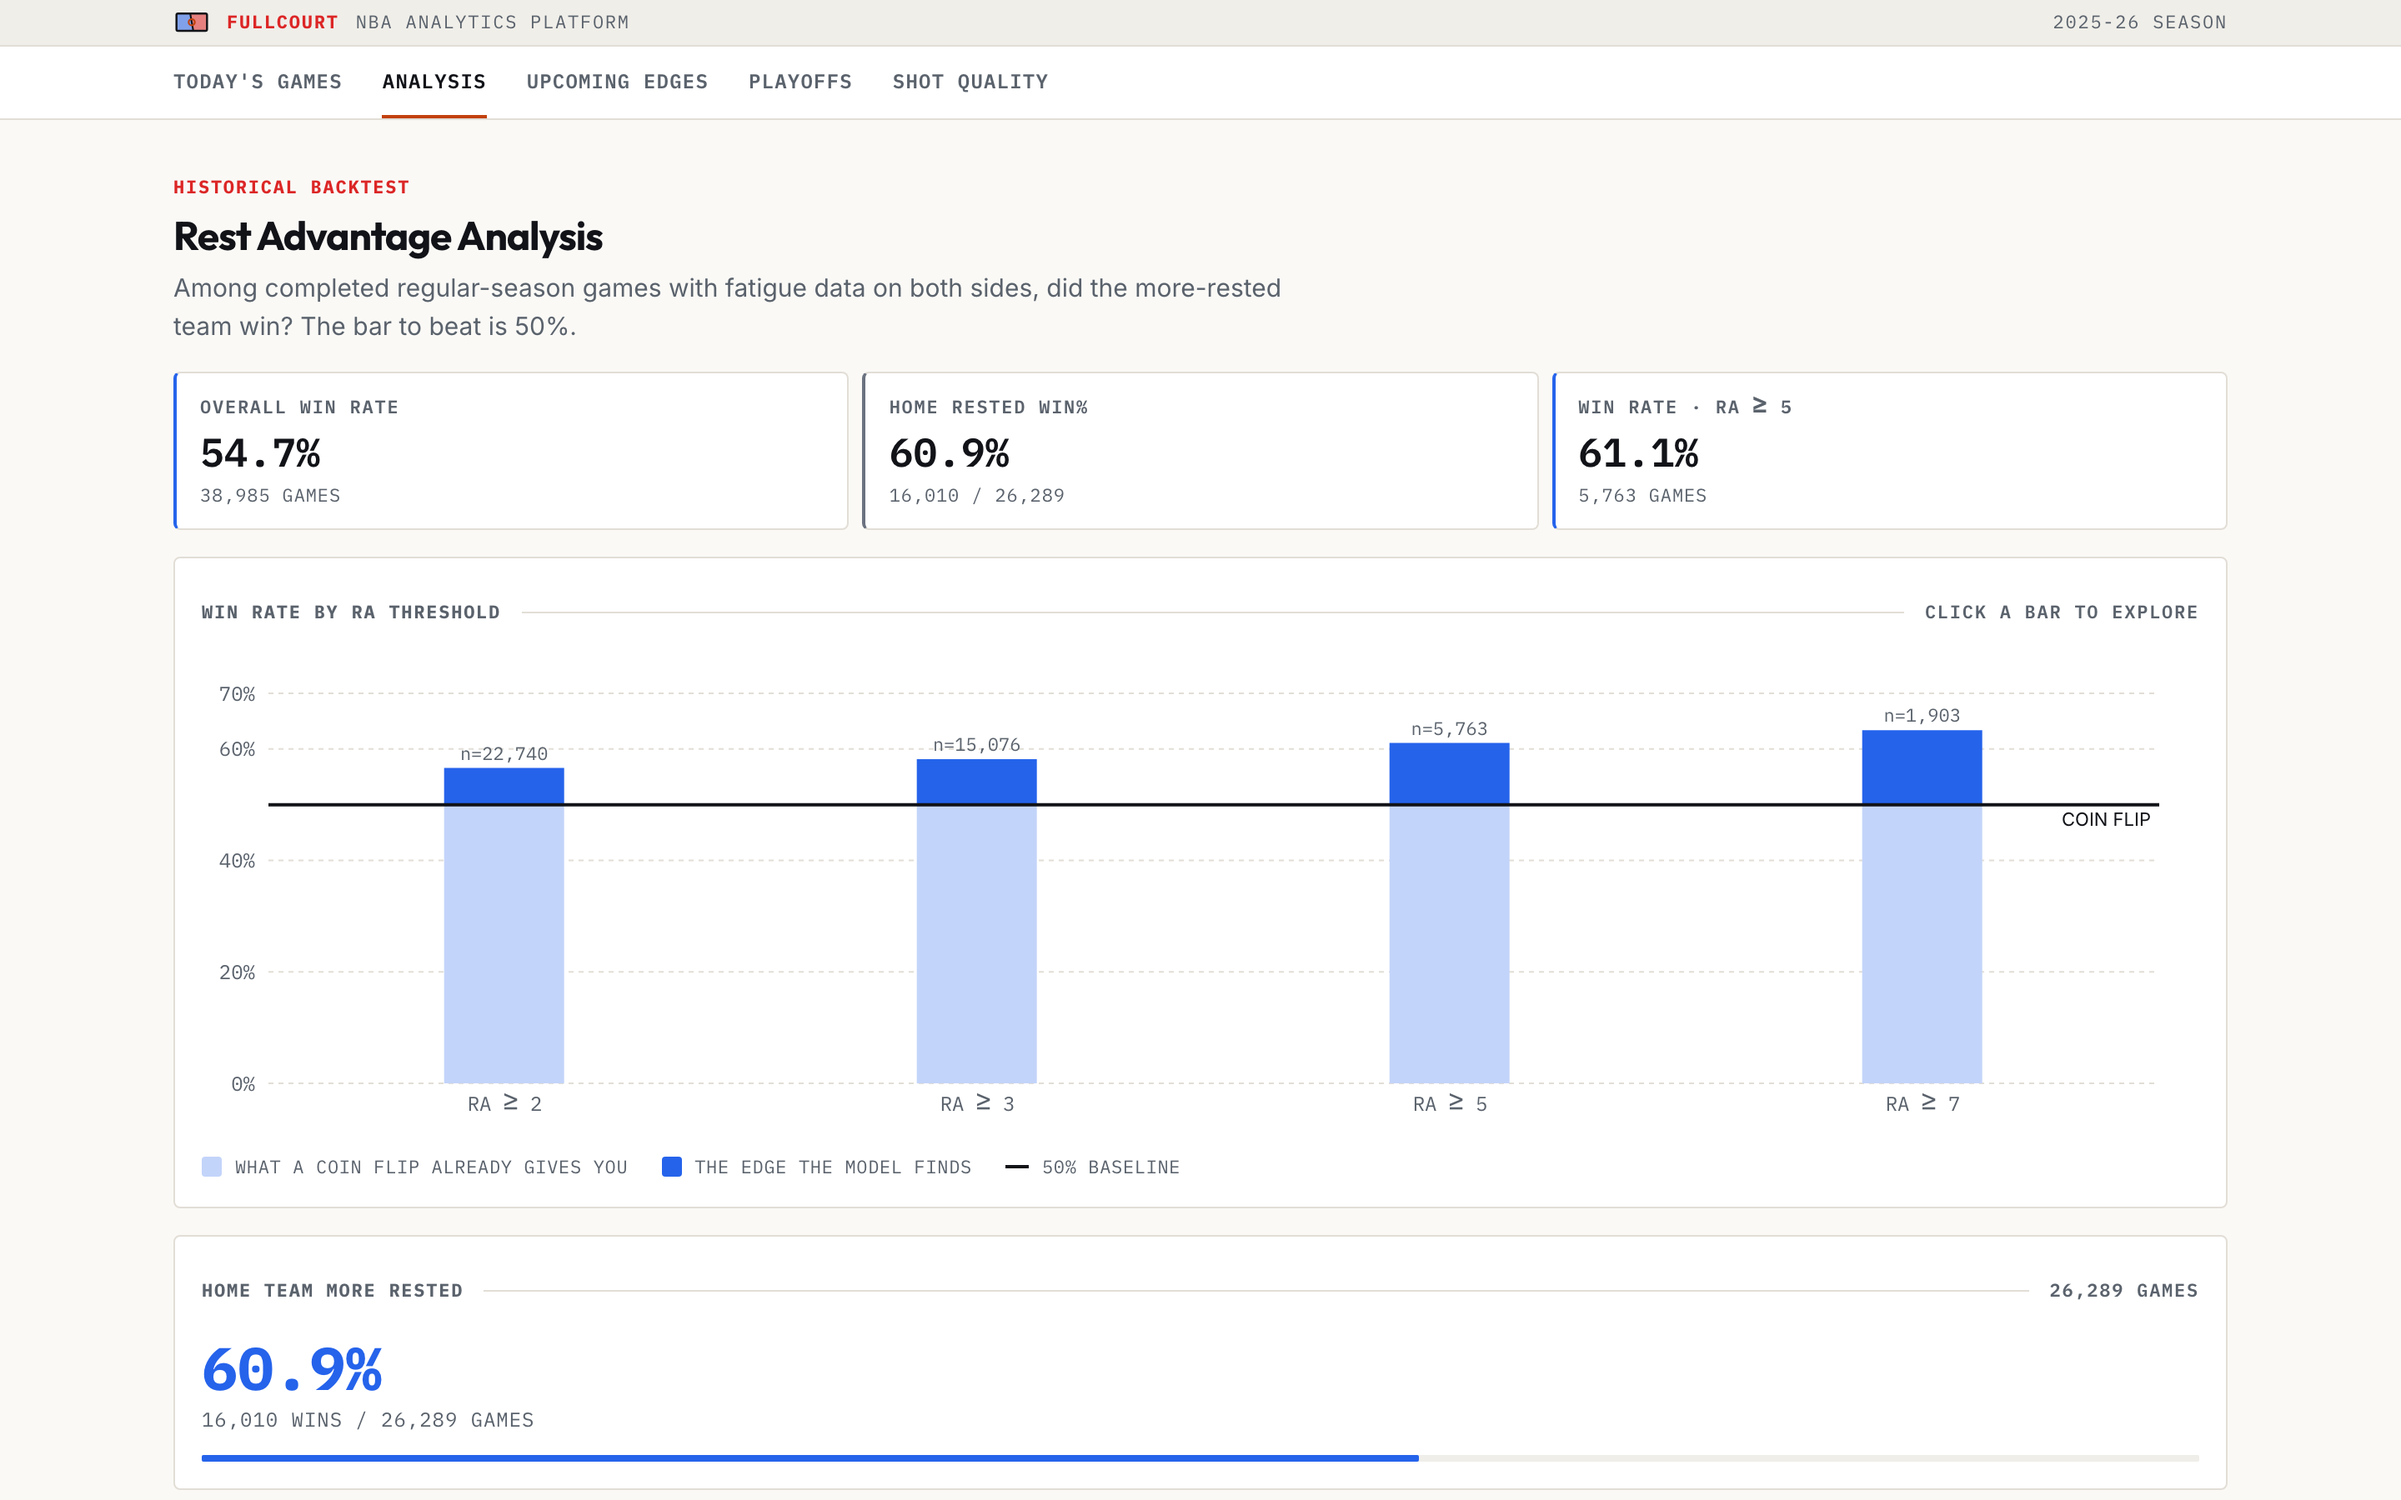
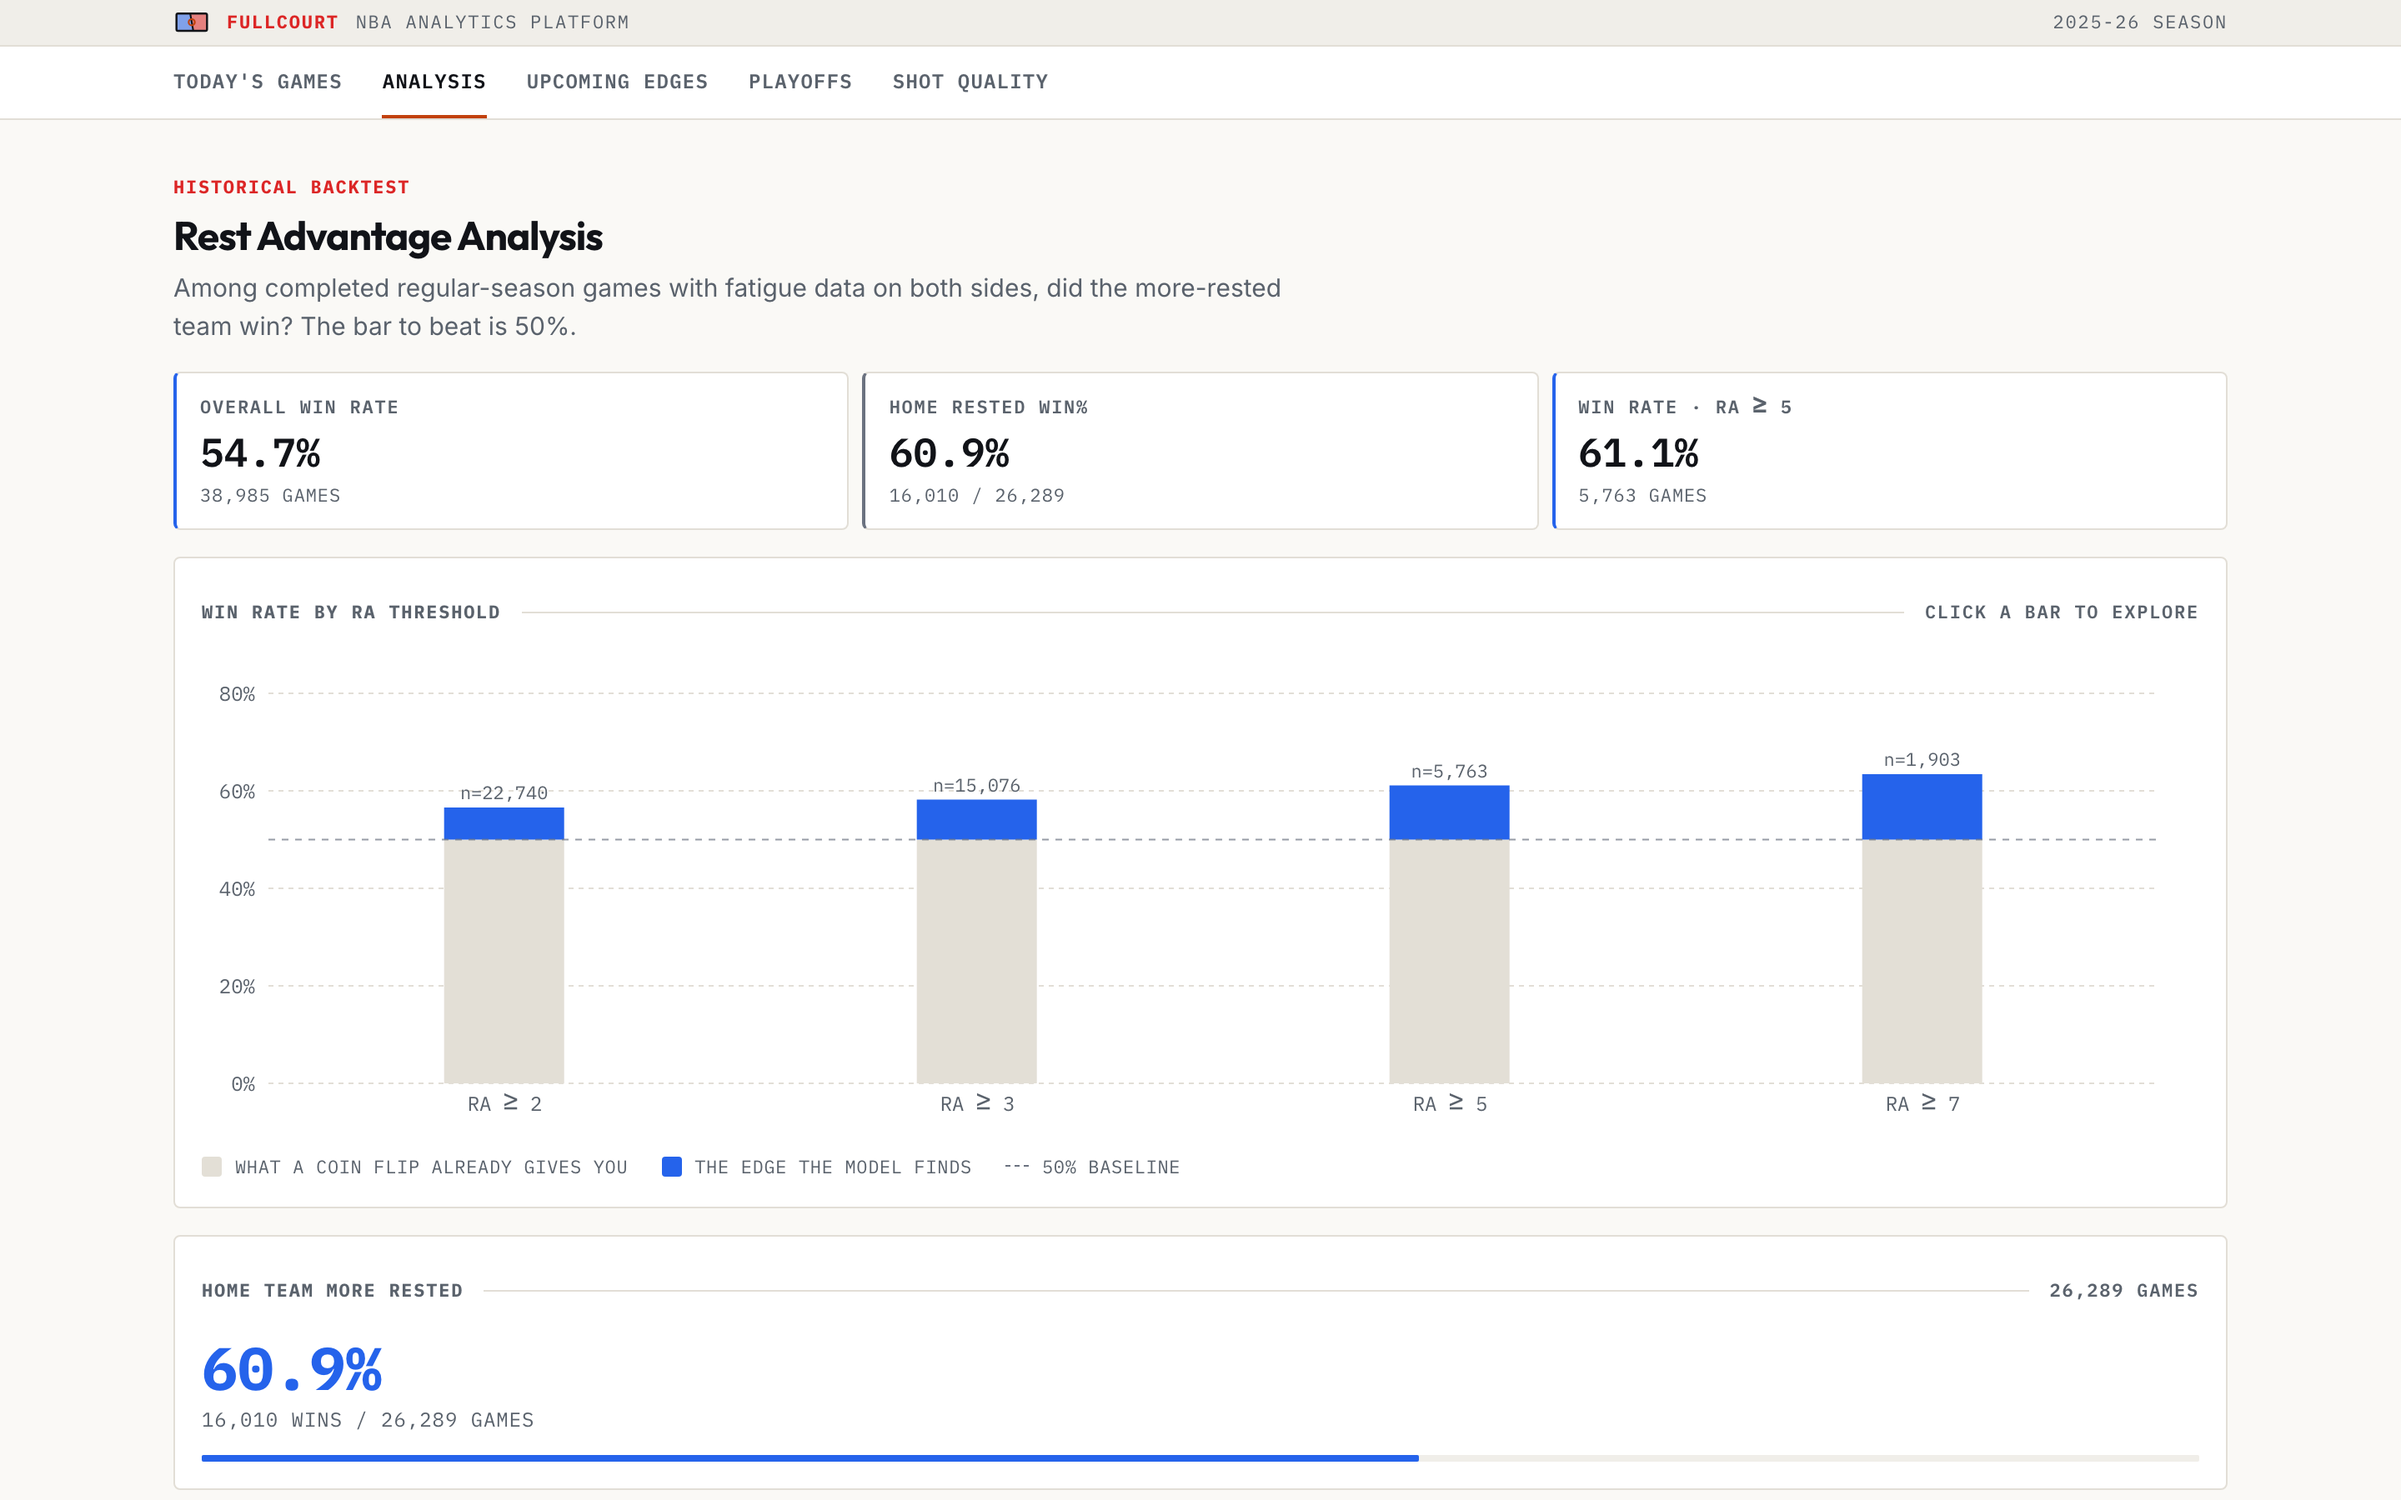
fix(analysis): de-emphasize the 50% baseline and regularize the win-rate y-axis

Changed region(s): [[0.125, 0.4667, 0.9062, 0.7467]]

diff --git a/src/components/analysis-content.tsx b/src/components/analysis-content.tsx
@@ -91,7 +91,7 @@ function BaselineLegend() {
       style={{ fontSize: 11, color: "var(--term-text-muted)", letterSpacing: "0.03em" }}
     >
       <span className="inline-flex items-center gap-2">
-        <span style={{ width: 12, height: 12, borderRadius: 2, background: "var(--term-blue-ghost)" }} />
+        <span style={{ width: 12, height: 12, borderRadius: 2, background: "var(--term-bar-base)" }} />
         WHAT A COIN FLIP ALREADY GIVES YOU
       </span>
       <span className="inline-flex items-center gap-2">
@@ -99,7 +99,7 @@ function BaselineLegend() {
         THE EDGE THE MODEL FINDS
       </span>
       <span className="inline-flex items-center gap-2">
-        <span style={{ width: 14, height: 2, background: "var(--term-text)" }} />
+        <span style={{ width: 14, borderTop: "1px dashed var(--term-neutral)" }} />
         50% BASELINE
       </span>
     </div>
@@ -147,12 +147,22 @@ function StatCard({
 
 /** A coin flip. Every win-rate bar is split here so the edge is what has length. */
 const BASELINE_PCT = 50
-const MIN_CHART_MAX_PCT = 70
+const TICK_STEP_PCT = 20
+const MIN_CHART_MAX_PCT = 80
 
-/** Zero-based, rounded up to a clean decade so no bar is ever clipped. */
+/**
+ * Zero-based, rounded up to a whole tick step so no bar is ever clipped AND the
+ * top gridline is always a labelled tick. Letting Recharts pick ticks off a
+ * domain of [0, 70] produced 0/20/40/60 plus an orphan 70 at an odd interval.
+ */
 function chartMaxPct(values: readonly number[]): number {
   const peak = values.length > 0 ? Math.max(...values) : 0
-  return Math.max(MIN_CHART_MAX_PCT, Math.ceil(peak / 10) * 10)
+  return Math.max(MIN_CHART_MAX_PCT, Math.ceil(peak / TICK_STEP_PCT) * TICK_STEP_PCT)
+}
+
+/** Evenly spaced ticks up to and including `max`. Recharts otherwise improvises. */
+function chartTicks(max: number): number[] {
+  return Array.from({ length: max / TICK_STEP_PCT + 1 }, (_, i) => i * TICK_STEP_PCT)
 }
 
 /** Splits a win rate into the coin-flip portion and the measured edge above it. */
@@ -285,6 +295,7 @@ function SeasonWinRateBySeasonChart({
             />
             <YAxis
               domain={[0, yMax]}
+              ticks={chartTicks(yMax)}
               tickFormatter={(v: number) => `${v}%`}
               tick={{ fontSize: 12, fill: "var(--term-text-muted)", fontFamily: MONO_FONT_STACK }}
               tickLine={false}
@@ -304,10 +315,18 @@ function SeasonWinRateBySeasonChart({
                 Sample size stays available on hover. Likewise no inline baseline label —
                 the bars run the full width here, so it has nowhere to sit; the legend
                 below names the rule. */}
-            <Bar dataKey="base" stackId="wr" fill="var(--term-blue-ghost)" maxBarSize={48} isAnimationActive={false} />
+            <Bar dataKey="base" stackId="wr" fill="var(--term-bar-base)" maxBarSize={48} isAnimationActive={false} />
             <Bar dataKey="edge" stackId="wr" fill="var(--term-blue)" maxBarSize={48} isAnimationActive={false} />
-            {/* Declared after the bars so the baseline draws on top of them. */}
-            <ReferenceLine y={BASELINE_PCT} stroke="var(--term-text)" strokeWidth={2} />
+            {/* Declared after the bars so the baseline draws on top of them. Hairline
+                and dashed on purpose: the neutral/blue seam already marks 50% on every
+                bar, so this only has to confirm the rule, not shout it. */}
+            <ReferenceLine
+              y={BASELINE_PCT}
+              stroke="var(--term-neutral)"
+              strokeWidth={1}
+              strokeDasharray="4 4"
+              strokeOpacity={0.7}
+            />
           </BarChart>
         </ResponsiveContainer>
       )}
@@ -806,6 +825,7 @@ export function AnalysisContent() {
               />
               <YAxis
                 domain={[0, thresholdYMax]}
+                ticks={chartTicks(thresholdYMax)}
                 tickFormatter={(v: number) => `${v}%`}
                 tick={{ fontSize: 12, fill: "var(--term-text-muted)", fontFamily: MONO_FONT_STACK }}
                 tickLine={false}
@@ -821,7 +841,7 @@ export function AnalysisContent() {
               <Bar
                 dataKey="base"
                 stackId="wr"
-                fill="var(--term-blue-ghost)"
+                fill="var(--term-bar-base)"
                 maxBarSize={72}
                 style={{ cursor: "pointer" }}
                 onClick={handleBarClick}
@@ -845,17 +865,16 @@ export function AnalysisContent() {
                   style={{ fontSize: "11px", fill: "var(--term-text-muted)", fontFamily: MONO_FONT_STACK }}
                 />
               </Bar>
-              {/* Declared after the bars so the baseline draws on top of them. */}
+              {/* Declared after the bars so the baseline draws on top of them. Hairline
+                  and dashed on purpose — see the season chart. No inline "COIN FLIP"
+                  label either: the legend below already names the rule, and the text sat
+                  in the plot competing with the bars. */}
               <ReferenceLine
                 y={BASELINE_PCT}
-                stroke="var(--term-text)"
-                strokeWidth={2}
-                label={{
-                  value: "COIN FLIP",
-                  position: "insideTopRight",
-                  fontSize: 11,
-                  fill: "var(--term-text)",
-                }}
+                stroke="var(--term-neutral)"
+                strokeWidth={1}
+                strokeDasharray="4 4"
+                strokeOpacity={0.7}
               />
             </BarChart>
           </ResponsiveContainer>

diff --git a/src/app/globals.css b/src/app/globals.css
@@ -127,8 +127,10 @@
   --term-red: #DC2626;
   --term-blue: #2563EB;
   /* The portion of a win-rate bar a coin flip already accounts for. Charts are
-     zero-based; only the segment ABOVE 50% is solid, so the edge carries the length. */
-  --term-blue-ghost: #C3D4FA;
+     zero-based; only the segment ABOVE 50% is solid, so the edge carries the length.
+     Deliberately neutral, not a second blue — it is inert context, and a pale blue
+     read as a competing data series and drowned out the edge it exists to frame. */
+  --term-bar-base: #E3DFD6;
   --term-hardwood: #A16207;
   --term-amber: #C2410C;   /* Broadcast "live" / active-tab accent */
   /* semantic */

diff --git a/docs/FRONTEND.md b/docs/FRONTEND.md
@@ -270,7 +270,7 @@ hard-code hexes.
 | `--term-text-dim #363B42` | secondary text (darker than muted) |
 | `--term-red #DC2626` | high confidence · danger · "higher fatigue" |
 | `--term-blue #2563EB` | primary · med confidence · "lower fatigue" · charts · active data |
-| `--term-blue-ghost #C3D4FA` | the coin-flip portion of a win-rate bar (see Charts below) |
+| `--term-bar-base #E3DFD6` | the coin-flip portion of a win-rate bar — warm neutral, not a second blue (see Charts below) |
 | `--term-hardwood #A16207` | **non-data chrome only** — off-season banners, amber CTA hover |
 | `--term-amber #C2410C` | **live** dot + active nav underline (broadcast accent) |
 | `--term-pos #15803D` / `--term-neg #DC2626` | win / loss, up / down |
@@ -337,17 +337,21 @@ onboarding dialog keeps its explicit amber rings, which are a real visible indic
 ### Charts (`analysis-content.tsx`)
 
 Both backtest bar charts are **zero-based** — `domain={[0, yMax]}`, where `yMax` comes from
-`chartMaxPct()` (the greater of 70 and the data's peak rounded up to a decade, so no bar can
-be clipped). They previously clipped to `[45, 75]` and `[40, 70]`, which renders a 4.8-point
-edge as a landslide.
+`chartMaxPct()` (the greater of 80 and the data's peak rounded up to a whole 20-point tick
+step, so no bar can be clipped and the top gridline is always a labelled tick — `ticks` comes
+from `chartTicks()` because Recharts, left to improvise on a `[0, 70]` domain, emitted
+0/20/40/60 plus an orphan 70). They previously clipped to `[45, 75]` and `[40, 70]`, which
+renders a 4.8-point edge as a landslide.
 
 Legibility is recovered without the dishonest axis by splitting each bar at the baseline:
 `splitAtBaseline(winPct)` yields `base = min(winPct, 50)` and `edge = max(0, winPct - 50)`,
-stacked under one `stackId`. The `base` segment is `--term-blue-ghost` ("what a coin flip
+stacked under one `stackId`. The `base` segment is `--term-bar-base` ("what a coin flip
 already gives you") and the `edge` segment is solid `--term-blue` ("the edge the model
-finds") — so the measured edge is the part with length. `BASELINE_PCT = 50` is drawn as a
-solid 2px `--term-text` `ReferenceLine` **declared after the bars** so it renders on top, and
-a `BaselineLegend` names all three marks. Tooltips read the win rate off the datum, not off
+finds") — so the measured edge is both the only saturated mark and the part with length.
+`BASELINE_PCT = 50` is drawn as a **hairline dashed** `--term-neutral` `ReferenceLine`
+(1px, `4 4`, 0.7 opacity) **declared after the bars** so it renders on top, with no inline
+"COIN FLIP" text; the neutral/blue seam already marks 50% on every bar, so the line only
+confirms the rule. A `BaselineLegend` names all three marks. Tooltips read the win rate off the datum, not off
 `payload` — with two stacked series, iterating `payload` would print the split halves — and
 each adds a `±N.N PP VS COIN FLIP` line.
 

diff --git a/README.md b/README.md
@@ -30,10 +30,10 @@ FullCourt quantifies how **travel, rest, and schedule density** shape NBA outcom
 ## Demo
 
 **Analysis — the 40-season backtest behind the headline finding.** Win rate by rest-advantage
-threshold on a zero-based axis, with each bar split at the 50% coin-flip line: the pale
-segment is what chance already accounts for, the solid segment is the measured edge.
+threshold on a zero-based axis, with each bar split at the 50% coin-flip line: the neutral
+segment is what chance already accounts for, the blue segment is the measured edge.
 
-<img src="docs/screenshots/analysis.png" alt="Rest Advantage Analysis: win rate by rest-advantage threshold across 38,985 regular-season games on a zero-based axis. Each bar is split at a solid 50% coin-flip baseline, with a pale lower segment for the coin-flip portion and a solid blue upper segment for the measured edge, and is labelled with its sample size" width="900" />
+<img src="docs/screenshots/analysis.png" alt="Rest Advantage Analysis: win rate by rest-advantage threshold across 38,985 regular-season games on a zero-based axis. Each bar is split at the 50% coin-flip baseline, with a neutral lower segment for the coin-flip portion and a solid blue upper segment for the measured edge, and is labelled with its sample size" width="900" />
 
 **Today's Games — the per-matchup view.** Each team's fatigue score, the rest-advantage
 differential, and a confidence read, with team colors carrying each card.
